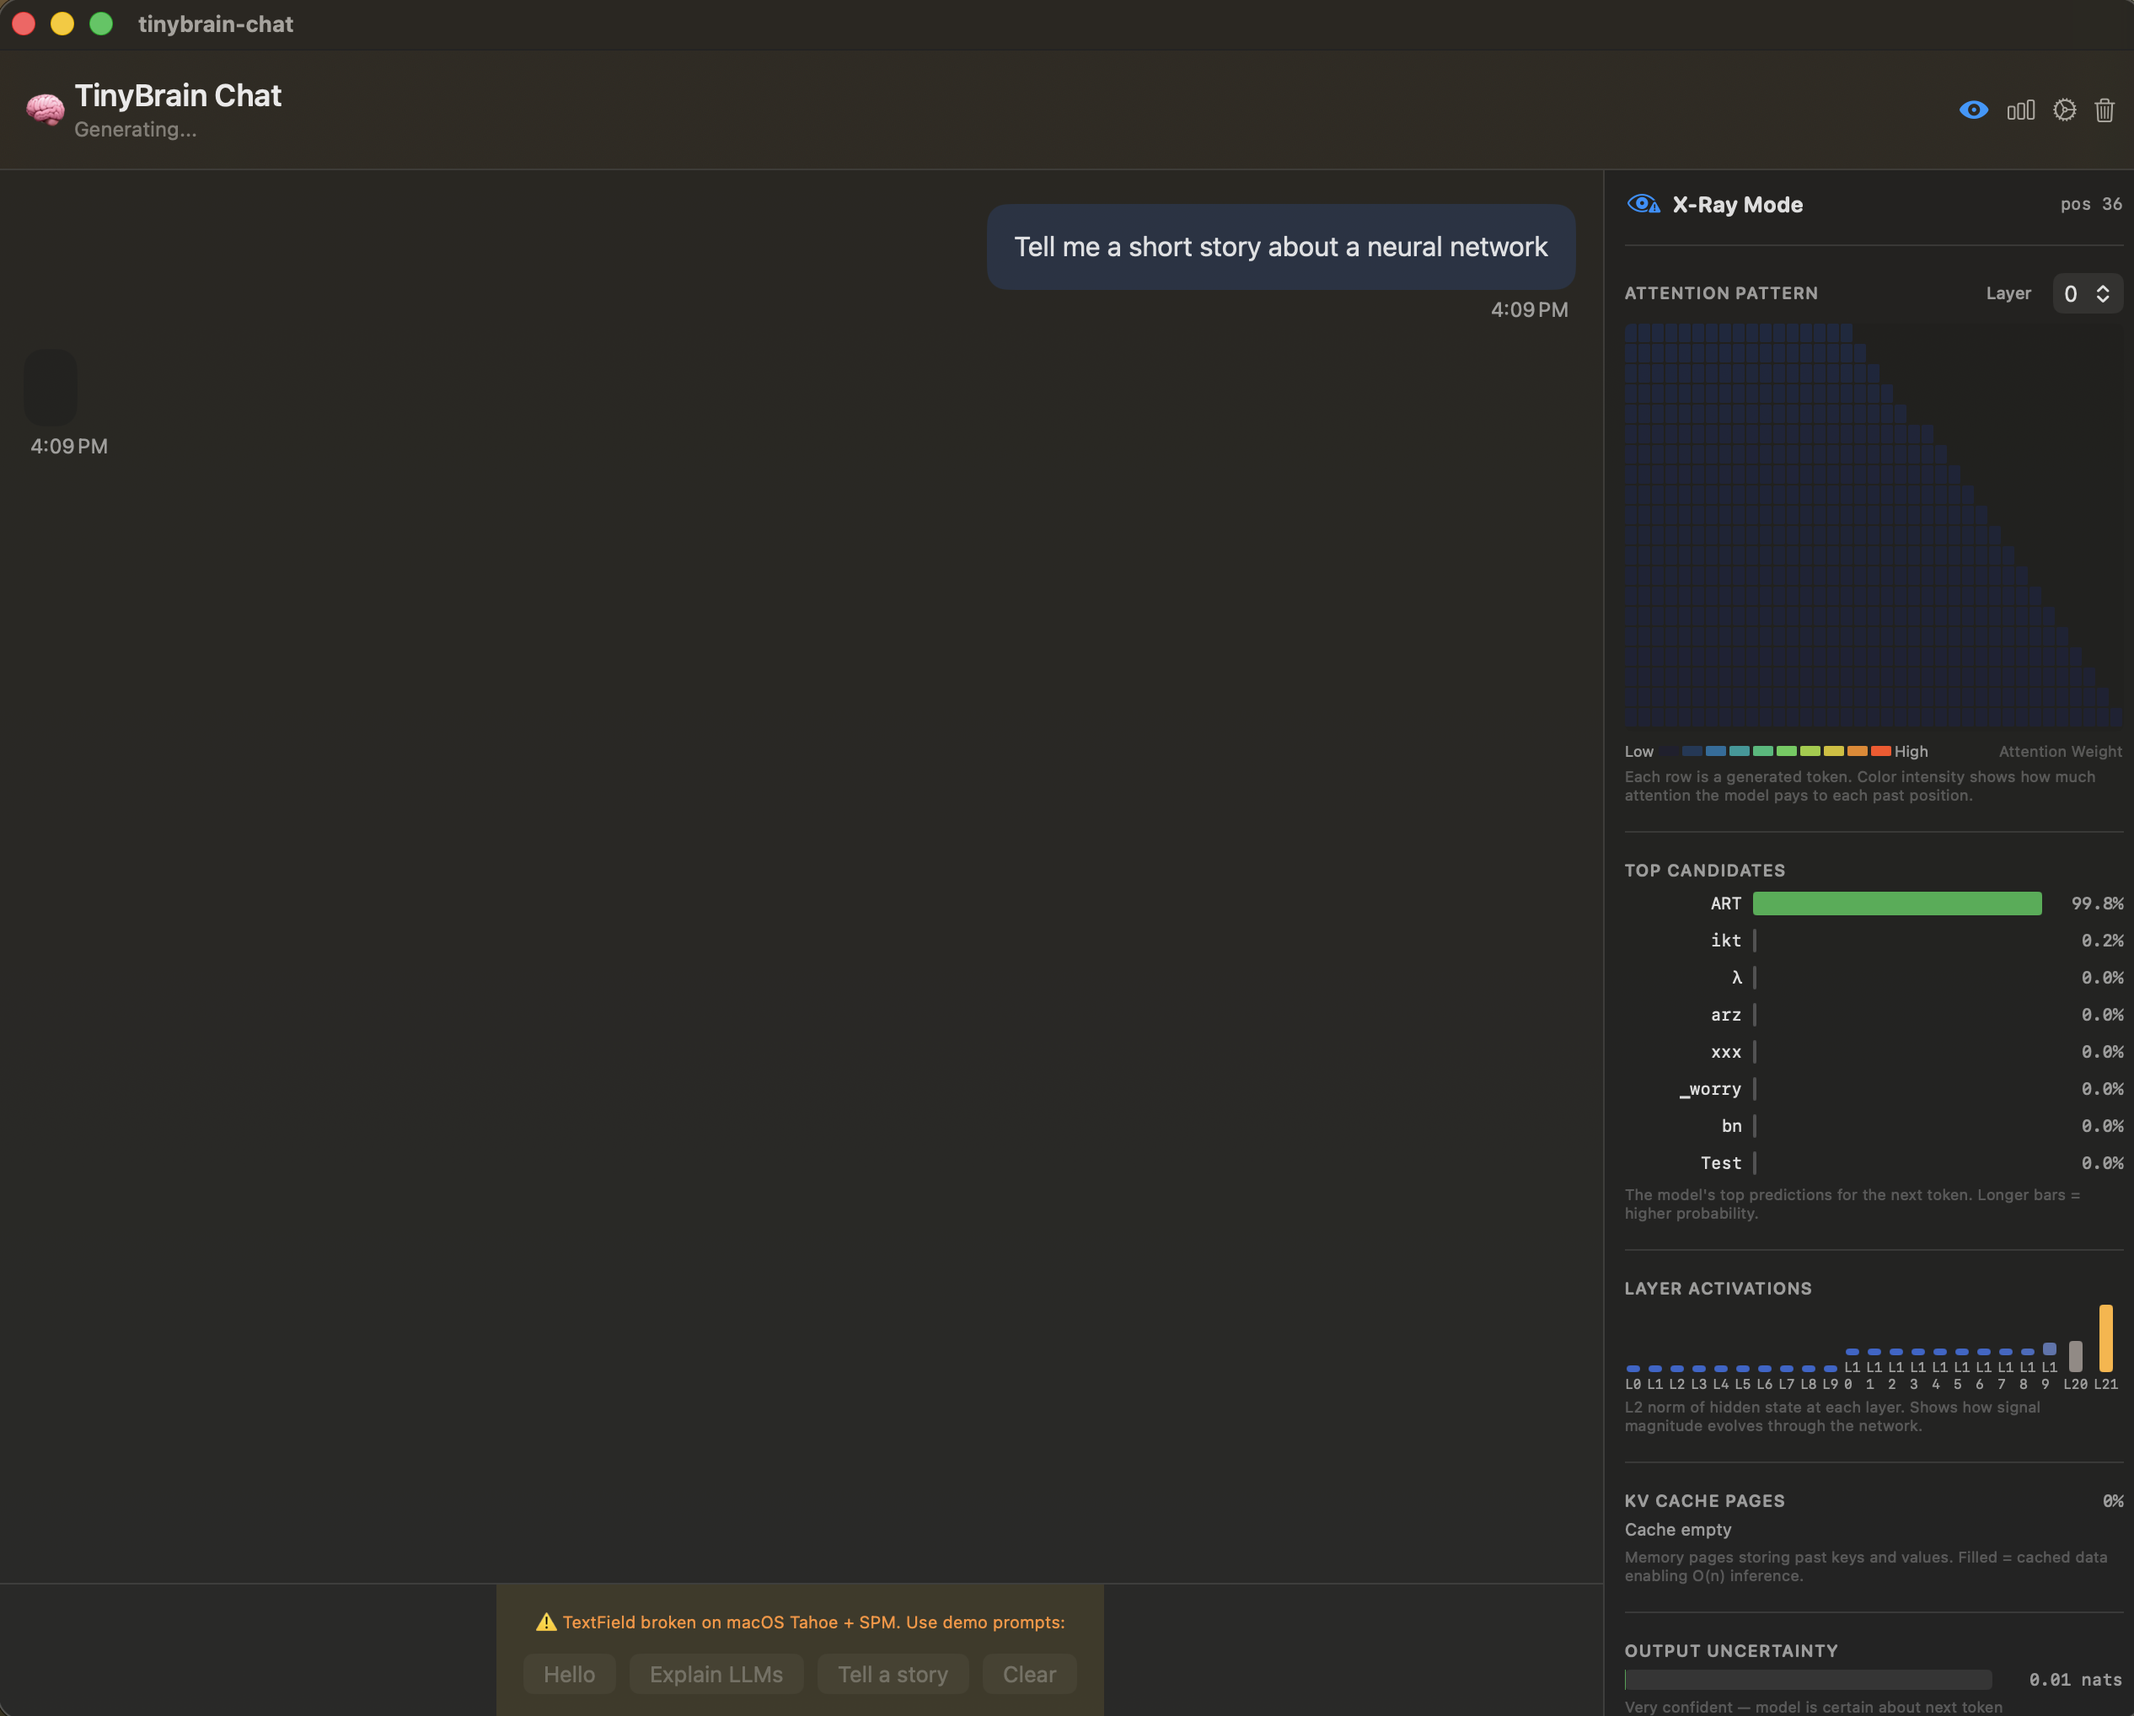
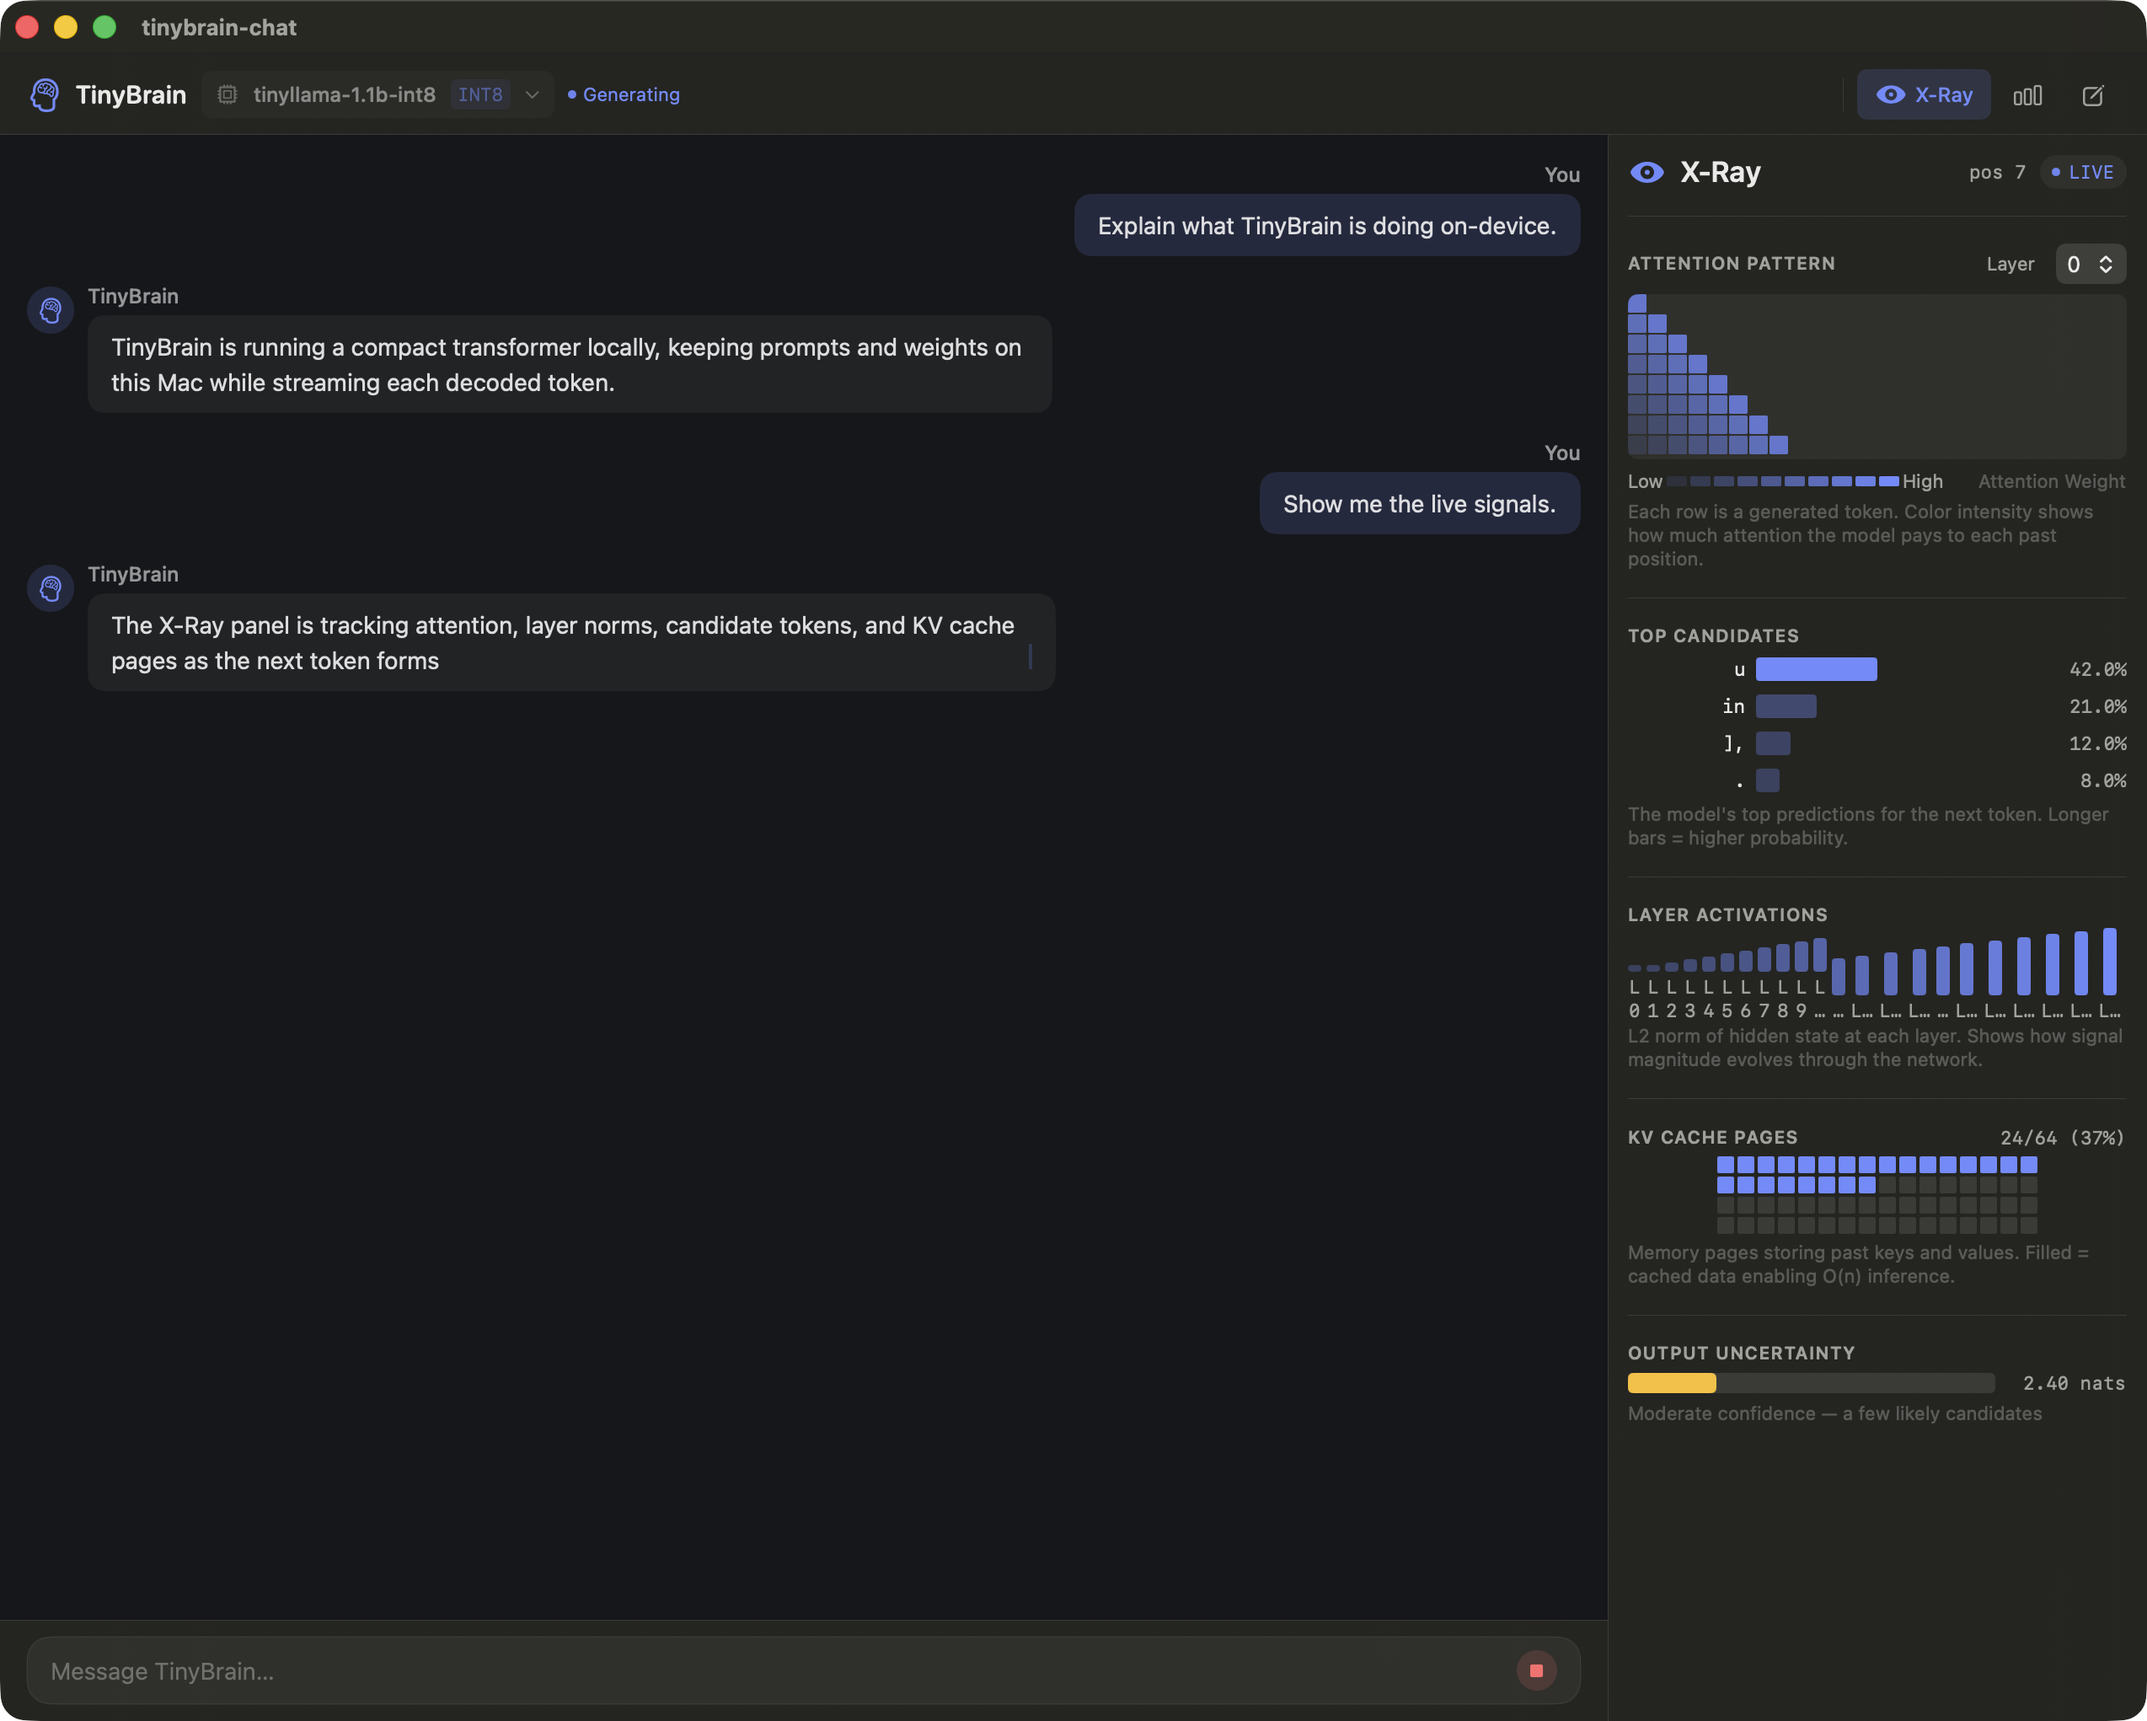
docs: README demo assets regenerated from the redesigned UI
All three screenshots captured live from the new instrument-grade UI via
the flag-guarded screenshot hooks (real app, real TinyLlama INT8 loaded):
- chat-screenshot.png: streaming conversation with live telemetry cluster
- xray-screenshot.png: X-Ray panel (attention heatmap, top candidates,
  layer activations, KV-cache pages, uncertainty) — now the README hero
- model-picker.png (new): local model inventory with honest quant badges
  and sizes — fills the placeholder open since the v0.2.0 close-out

The March-era xray-demo.gif (old UI) is no longer referenced; a fresh
recording is tracked as a follow-up (needs an interactive session).

Claude-Session: https://claude.ai/code/session_012Gt2AmvQVRGSp5AMCJdYPu

diff --git a/README.md b/README.md
@@ -38,11 +38,9 @@ toggling X-Ray while a response is streaming can crash because the observer
 swap is unsynchronized; toggle between generations until the v0.2.x fix lands.
 
 <p align="center">
-  <img src="docs/images/xray-demo.gif" alt="X-Ray Mode Demo" width="700" />
-</p>
-
-<p align="center">
   <img src="docs/images/xray-screenshot.png" alt="X-Ray Mode Screenshot" width="700" />
+  <br />
+  <sub>X-Ray Mode — live attention, layer activations, token probabilities, and KV-cache pages while the model generates.</sub>
 </p>
 
 ---
@@ -125,6 +123,10 @@ swift run tinybrain-chat
 
 This runs with a built-in toy model so you can see the UI immediately. The output won't be real language (it's random weights), but you'll see the full inference pipeline working — streaming tokens, telemetry, and X-Ray Mode.
 
+<p align="center">
+  <img src="docs/images/chat-screenshot.png" alt="TinyBrain chat — streaming generation with live telemetry" width="700" />
+</p>
+
 ### Step 3: Run with a Real Model (Optional)
 
 To get actual language output, you need a real model. Here's how:
@@ -162,7 +164,9 @@ This opens the project in Xcode. Select the **ChatDemo** scheme from the dropdow
 
 The ChatDemo header shows the active model name. Click it to open the model picker — any `.tbf` file in your `Models/` directory appears automatically.
 
-*Screenshots coming with the v0.2.0 release notes.*
+<p align="center">
+  <img src="docs/images/model-picker.png" alt="Model picker — local .tbf models with quantization badges and sizes" width="700" />
+</p>
 
 To switch to Gemma 2B:
 1. Convert the model (see **Supported Models** below for the command)
